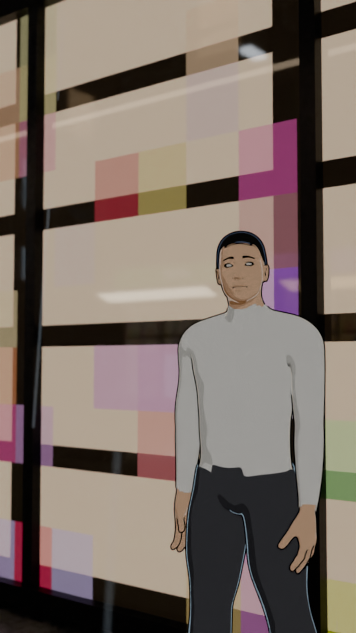
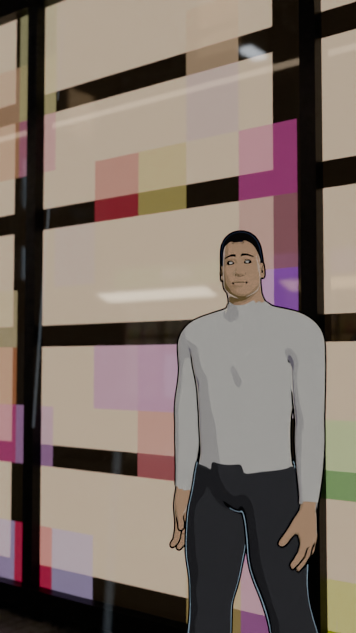
Webtoon-style cast redesign (original characters in the Korean webtoon idiom)
- Hero: tall lean build, smaller head and V-line jaw, slicked-back hair, black open-collar shirt, no coat
- Narrator: heavy fringe, dark sweatshirt, jeans, sneakers
- Deep cool hard-edged shadows on cloth and hair, warm skin shadows, heavier ink line, thin hair gloss
- cast_test.py lineup and face lookdev

Claude-Session: https://claude.ai/code/session_01RmZcNKw4UE8v1k2Jyijr8e

diff --git a/lookdev/character_mh.py b/lookdev/character_mh.py
@@ -13,7 +13,9 @@ from mathutils import Vector, Matrix, Quaternion, kdtree, bvhtree
 HERE = os.path.dirname(os.path.abspath(__file__))
 MH = os.path.join(HERE, "assets", "makehuman")
 S = 0.1  # MakeHuman decimetres -> metres
-OUTLINE = 0.0042  # ink line width in metres (0 disables)
+OUTLINE = 0.005  # ink line width in metres (0 disables); heavier webtoon ink
+SHADOW = 0.2      # manhwa shading: deep, hard-edged shadow (fraction of base colour)
+SHADOW_TINT = (0.09, 0.07, 0.16)  # shadows lean cool violet, like printed webtoon panels
 
 BODY = {
     "m": {"asian-male-young.target": 0.55, "caucasian-male-young.target": 0.45,
@@ -21,6 +23,11 @@ BODY = {
           "universal-male-young-averagemuscle-minweight.target": 0.25,
           "male-young-averagemuscle-averageweight-maxheight.target": 0.3,
           "male-young-averagemuscle-averageweight-idealproportions.target": 1.0},
+    "m_lean": {"asian-male-young.target": 0.75, "caucasian-male-young.target": 0.25,
+               "universal-male-young-maxmuscle-averageweight.target": 0.55,
+               "universal-male-young-averagemuscle-minweight.target": 0.45,
+               "male-young-averagemuscle-averageweight-maxheight.target": 0.7,
+               "male-young-averagemuscle-averageweight-idealproportions.target": 1.0},
     "m_heavy": {"asian-male-young.target": 0.5, "african-male-young.target": 0.2, "caucasian-male-young.target": 0.3,
                 "universal-male-young-averagemuscle-maxweight.target": 0.55,
                 "male-young-averagemuscle-averageweight-idealproportions.target": 0.6},
@@ -30,9 +37,11 @@ BODY = {
           "female-young-averagemuscle-averageweight-idealproportions.target": 1.0},
 }
 
-HERO = dict(body="m", height=1.86, skin=("#e8c2a2", "#a9775b"), hair="short", hair_col="#16181d", locks=True,
-            top=("#cfc4b2", "#7d7466"), coat=("#2f343c", "#11141a"), hem=0.36, open_skirt=True,
-            legs="trousers", leg_col=("#24272d", "#0c0e12"), shoes=("#1b1a1c", "#3a2a22"), brows="#1a1714")
+# Lead: "midnight, no coat, no hat". Tall webtoon build, slicked-back black hair, black open-collar shirt,
+# charcoal slacks, black leather shoes. Original design in the Korean webtoon idiom (not any existing character).
+HERO = dict(body="m_lean", height=1.9, skin=("#efcfb4", "#b0806a"), hair="slick", hair_col="#101216", locks=True,
+            top=("#1d1f25", "#07080b"), turtleneck=False, coat=None, manhwa_head=True,
+            legs="trousers", leg_col=("#2b2e35", "#0b0c10"), shoes=("#141416", "#3a3236"), brows="#121014", iris="#2a2220")
 
 def set_interp(idblock, kind="LINEAR", data_path=None):
     """Force interpolation on an ID's keyframes (Blender 5 ignores the new-key preference in background mode)."""
@@ -120,9 +129,11 @@ def cel(hexc, shade=None, rim="#cdeffd", spec=0.0, spec_col="#ffffff", light=(-0
     ln = Vector(light).normalized()
     d = N.new("ShaderNodeVectorMath"); d.operation = "DOT_PRODUCT"; L.new(geo.outputs["Normal"], d.inputs[0]); d.inputs[1].default_value = ln
     base = lin(hexc); sh = lin(shade) if shade else tuple(c * 0.38 for c in base[:3]) + (1.0,)
-    mid = tuple((a + b) / 2 for a, b in zip(base, sh))
-    c = mix(mth("GREATER_THAN", d.outputs["Value"], -0.15), sh, mid)       # 3-tone ramp
-    c = mix(mth("GREATER_THAN", d.outputs["Value"], 0.25), c, base)
+    if name != "skin":   # cloth and hair: deeper, cooler shadow; skin keeps its warm given shade
+        sh = tuple(min(a, b * SHADOW + t) for a, b, t in zip(sh[:3], base[:3], SHADOW_TINT)) + (1.0,)
+    mid = tuple(a * 0.62 + b * 0.38 for a, b in zip(base, sh))
+    c = mix(mth("GREATER_THAN", d.outputs["Value"], 0.02), sh, mid)        # hard shadow edge
+    c = mix(mth("GREATER_THAN", d.outputs["Value"], 0.42), c, base)
     if spec:  # sheen band: N.H with H = light + view
         h = N.new("ShaderNodeVectorMath"); h.operation = "ADD"; h.inputs[0].default_value = ln
         L.new(geo.outputs["Incoming"], h.inputs[1])
@@ -267,6 +278,19 @@ def build(coll, location=(0, 0, 0), style=None, pose_mode="walk", heading=0.0):
     zmin = min(V[i].z for f in body_faces for i in f)
     for v in V:
         v.z -= zmin
+    if st.get("manhwa_head"):
+        jj = lambda n: sum((V[i] for i in sk["joints"][sk["bones"][n]["head"]]), Vector()) / len(sk["joints"][sk["bones"][n]["head"]])
+        nz = jj("neck03").z; eye_z = jj("eye.L").z
+        piv = Vector((0.0, jj("head").y, nz))
+        for v in V:
+            if v.z <= nz:
+                continue
+            t = min(1.0, (v.z - nz) / 0.07)
+            k = 1.0 - 0.075 * t                          # ~8% smaller head: longer-looking webtoon body
+            d = v - piv; v.x = piv.x + d.x * k * (1.0 - 0.12 * t); v.y = piv.y + d.y * k; v.z = piv.z + d.z * k
+            jaw = max(0.0, min(1.0, (eye_z - 0.02 - v.z) / 0.085)) * t   # cheekbone -> chin: V-line jaw
+            v.x *= 1.0 - 0.2 * jaw
+            v.z -= 0.01 * jaw                                    # slightly longer chin
     jpos = {j: sum((V[i] for i in idx), Vector()) / len(idx) for j, idx in sk["joints"].items()}
     dom = {i: max(lst, key=lambda t: t[1])[0] for i, lst in per_vert.items()}
     def region(f, names):
@@ -320,7 +344,7 @@ def build(coll, location=(0, 0, 0), style=None, pose_mode="walk", heading=0.0):
                 and max(V[i].z for i in f) < neck_cut]
     off = {i: nrm[i] * 0.004 for f in tn_faces for i in f}
     tn, used = make_mesh("top", coll, V, tn_faces, off)
-    tn.data.materials.append(cel(st["top"][0], st["top"][1], rim="#fff4e0", name="knit")); finish(tn, used)
+    tn.data.materials.append(cel(st["top"][0], st["top"][1], rim="#fff4e0" if sum(lin(st["top"][0])[:3]) > 0.3 else "#4a5874", rim_amt=0.8 if sum(lin(st["top"][0])[:3]) > 0.3 else 0.6, name="knit")); finish(tn, used)
 
     # --- coat / jacket
     if st.get("coat"):
@@ -488,7 +512,12 @@ def make_hair(coll, V, body_faces, region, nrm, J, st, per_vert):
         if style == "bob":       # fringe to the brows, sides to the jaw
             thr = eyeL.z - 0.1 + 0.125 * frontness
             return c.z > thr
-        thr = eyeL.z - 0.075 + 0.135 * frontness
+        if style == "bangs":     # heavy fringe down to the brows, short tidy sides
+            thr = eyeL.z - 0.05 + 0.065 * frontness
+            if abs(c.x) > hx * 0.86 and c.z < eyeL.z + 0.025:
+                return False
+            return c.z > thr
+        thr = eyeL.z - 0.075 + (0.155 if style == "slick" else 0.135) * frontness   # slick: higher hairline, forehead shows
         if abs(c.x) > hx * 0.86 and c.z < eyeL.z + 0.035:
             return False
         return c.z > thr
@@ -499,7 +528,14 @@ def make_hair(coll, V, body_faces, region, nrm, J, st, per_vert):
     for i in hidx:
         p = V[i]; n = nrm[i]
         up = min(1.0, max(0.0, (p.z - eyeL.z - 0.03) / 0.1)); front = min(1.0, max(0.0, (hc.y - p.y) / 0.1))
-        if style == "short":
+        if style == "slick":   # swept back: volume on top, pushed toward the crown, tight sides
+            th = 0.004 + 0.022 * up + 0.006 * front * up + 0.0022 * math.sin(p.x * 260 + p.y * 120) * up
+            HV[i] = p + n * th + Vector((0, 0.014 * up, 0.006 * up))
+        elif style == "bangs":   # thick fringe falling forward over the brow
+            low = min(1.0, max(0.0, (eyeL.z + 0.06 - p.z) / 0.06)) * front
+            th = 0.008 + 0.016 * up + 0.012 * low + 0.002 * math.sin(p.x * 420) * (up + low)
+            HV[i] = p + n * th + Vector((0, -0.01 * low, -0.004 * low))
+        elif style == "short":
             th = 0.005 + 0.017 * up + 0.012 * front * up + 0.0018 * math.sin(p.x * 380) * up
             HV[i] = p + n * th + Vector((0, 0.008 * up, 0.004 * front * up))
         elif style == "buzz":
@@ -509,7 +545,7 @@ def make_hair(coll, V, body_faces, region, nrm, J, st, per_vert):
             th = 0.012 + 0.008 * up + 0.014 * low + 0.0012 * math.sin(p.z * 300)
             HV[i] = p + n * th + Vector((0, 0.004 * low, 0))
     hair, used = make_mesh("hair", coll, HV, hf)
-    HM = cel(st["hair_col"], "#07080a", rim="#6f7f9f", spec=0.06, spec_col="#5d6782", rim_amt=0.5, name="hair")
+    HM = cel(st["hair_col"], "#050608", rim="#4f5d7c", spec=0.02, spec_col="#3c4660", rim_amt=0.45, name="hair")  # thin gloss band
     hair.data.materials.append(HM)
     return [(hair, used, 0.004)]
 

diff --git a/shorts/aura/film.py b/shorts/aura/film.py
@@ -45,18 +45,19 @@ hero.location = STOP; hero.keyframe_insert("location", frame=TURN + 8)
 hero.rotation_euler = (0, 0, 0); hero.keyframe_insert("rotation_euler", index=2, frame=TURN + 10)
 hero.rotation_euler = (0, 0, math.pi); hero.keyframe_insert("rotation_euler", index=2, frame=TURN + 26)
 
-# the narrator (who inherits the job): own face, same kind of long dark coat
-NARR = dict(body="m", height=1.8, skin=("#d9a982", "#9a6a4a"), hair="short", hair_col="#2a1d16", locks=False,
-            top=("#26292f", "#0e1013"), coat=("#1c1c1e", "#08080a"), hem=0.4, leg_col=("#1b1d22", "#0a0b0d"),
-            shoes=("#1b1a1c", "#3a2a22"), brows="#2b211b", iris="#3a2a22")
+# the narrator (who inherits the job): an ordinary kid in a dark hoodie, jeans and sneakers, heavy fringe
+NARR = dict(body="m_lean", height=1.8, skin=("#f1d3ba", "#b4876e"), hair="bangs", hair_col="#15171c", locks=False,
+            top=("#2a2c33", "#0b0c10"), turtleneck=True, coat=None, manhwa_head=True,
+            legs="trousers", leg_col=("#4a6d96", "#1d2c44"), shoes=("#1c1c20", "#e8e6e0"), sneakers=True,
+            brows="#16131a", iris="#2e2624")
 narr_start = STOP + Vector((0, 2.2, 0))
 narr, _ = ch.build(C.PEOPLE_C, (narr_start.x, narr_start.y, 0), NARR, pose_mode="walk"); narr.name = "NARRATOR"
 nspeed = ch.animate_walk(narr, (narr_start.x, narr_start.y, 0), 0.0, fr("payoff") - 34, N, phase=0.25, cycle=36)
 
 # the three theories: a shopkeeper, a police officer, two kids
-SHOP = dict(body="m_heavy", height=1.72, skin=("#e3b894", "#a2734f"), hair="buzz", hair_col="#22201f", coat=None,
+SHOP = dict(manhwa_head=True, body="m_heavy", height=1.72, skin=("#e3b894", "#a2734f"), hair="buzz", hair_col="#22201f", coat=None,
             top=("#e9e6df", "#9a978f"), turtleneck=False, leg_col=("#4a4a4d", "#1d1d1f"), head_yaw=28, subsurf=1)
-COP = dict(body="m", height=1.82, skin=("#f0cfb3", "#b48466"), hair="short", locks=False, coat=("#1f2a3d", "#0c1220"),
+COP = dict(manhwa_head=True, body="m", height=1.82, skin=("#f0cfb3", "#b48466"), hair="short", locks=False, coat=("#1f2a3d", "#0c1220"),
            hem=0.62, top=("#8a9bb0", "#4b5868"), turtleneck=False, leg_col=("#1f2a3d", "#0c1220"), head_yaw=-24, subsurf=1)
 KID1 = dict(body="f", height=1.28, skin=("#f3d6bf", "#bf9274"), hair="bob", hair_col="#2a1d16", coat=("#e2b437", "#8f6f16"),
             hem=0.62, top=("#e9e6df", "#9a978f"), legs="trousers", leg_col=("#2f3f5a", "#141c2b"),

diff --git a/lookdev/cast_test.py b/lookdev/cast_test.py
@@ -1,0 +1,28 @@
+"""Cast lineup + face close-ups for lookdev:  /root/.venvs/bpy/bin/python lookdev/cast_test.py [scale]"""
+import bpy, os, sys, importlib.util
+HERE = os.path.dirname(os.path.abspath(__file__)); sys.path.insert(0, HERE)
+import character_mh as ch
+SCALE = int(sys.argv[1]) if len(sys.argv) > 1 else 40
+bpy.ops.wm.read_factory_settings(use_empty=True)
+scn = bpy.context.scene
+cc = bpy.data.collections.new("cast"); scn.collection.children.link(cc)
+src = open(os.path.join(HERE, "..", "shorts", "aura", "film.py")).read()
+NARR = eval(src[src.index("NARR = dict(") + 7:src.index("narr_start")].strip())
+ch.build(cc, (-0.5, 0, 0), ch.HERO, pose_mode="stand")
+ch.build(cc, (0.5, 0, 0), NARR, pose_mode="stand")
+w = bpy.data.worlds.new("w"); scn.world = w; w.use_nodes = True
+w.node_tree.nodes["Background"].inputs[0].default_value = (0.78, 0.8, 0.84, 1)
+scn.render.engine = "CYCLES"; scn.cycles.samples = 16; scn.cycles.use_denoising = False
+scn.render.resolution_x, scn.render.resolution_y = 1080, 1920; scn.render.resolution_percentage = SCALE
+scn.view_settings.view_transform = "Standard"
+cd = bpy.data.cameras.new("cam"); cd.sensor_fit = "VERTICAL"; cd.sensor_height = 36
+cam = bpy.data.objects.new("cam", cd); scn.collection.objects.link(cam); scn.camera = cam
+t = bpy.data.objects.new("t", None); scn.collection.objects.link(t)
+c = cam.constraints.new("TRACK_TO"); c.target = t; c.track_axis = "TRACK_NEGATIVE_Z"; c.up_axis = "UP_Y"
+OUT = os.path.join(HERE, "renders"); os.makedirs(OUT, exist_ok=True)
+for name, loc, tgt, lens in (("lineup", (0, -6.4, 1.0), (0, 0, 0.95), 50),
+                             ("face_hero", (-0.32, -0.85, 1.8), (-0.5, 0, 1.77), 70),
+                             ("face_narr", (0.66, -0.85, 1.69), (0.5, 0, 1.67), 70)):
+    cam.location = loc; t.location = tgt; cd.lens = lens
+    scn.render.filepath = os.path.join(OUT, f"cast_{name}.png"); bpy.ops.render.render(write_still=True)
+print("DONE")
